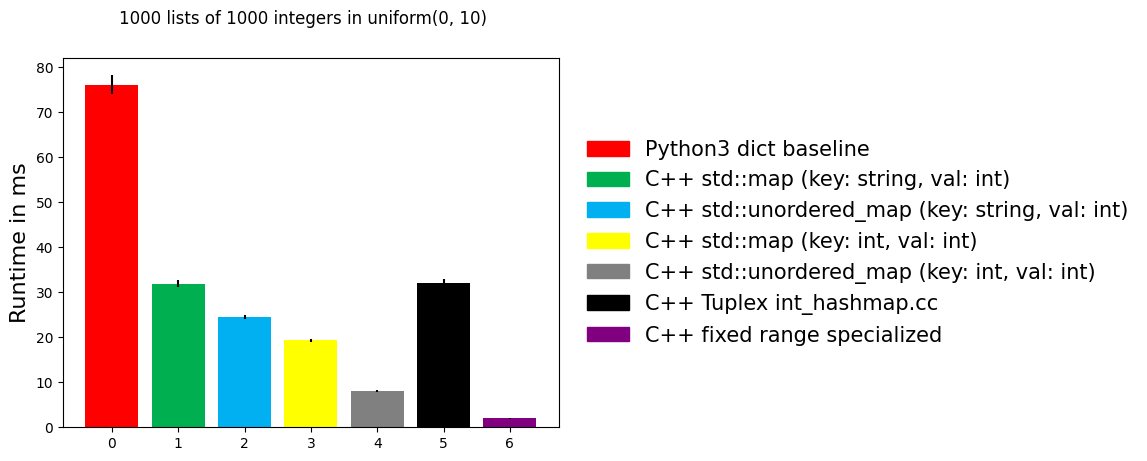
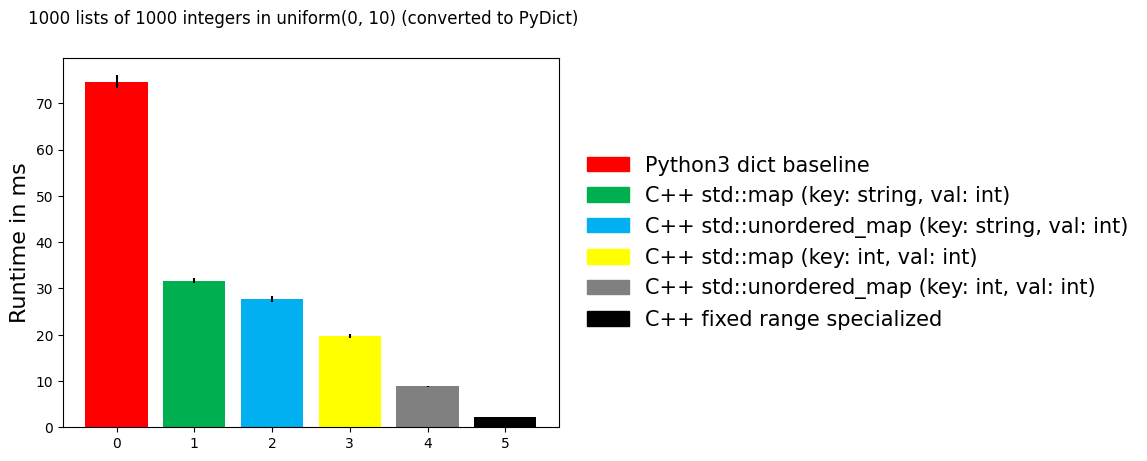
pydict version

diff --git a/benchmarks/hyperspecialization/list_generate/generate_timings.py b/benchmarks/hyperspecialization/list_generate/generate_timings.py
@@ -68,7 +68,7 @@ def plot_timings(ys, legends, title):
     plt.legend(labels=objects, handles=patches, bbox_to_anchor=(1.04, 0.5), loc='center left', borderaxespad=0, fontsize=15, frameon=False)
 
     plt.suptitle(title)
-    plt.savefig('test.png', bbox_inches='tight')
+    plt.savefig('1000_0_to_1000.png', bbox_inches='tight')
 # add the annotations
 
     # for y_list, legend in zip(ys, legends):
@@ -88,7 +88,7 @@ def baseline_py_timings(filename_str):
     return (statistics.mean(curr_timings), statistics.stdev(curr_timings))
 
 def get_cc_timings(filename_str):
-    to_run_cc = ['stdmap_string_int', 'stdumap_string_int', 'stdmap_int_int', 'stdumap_int_int', 'tuplex_int_nopydict', 'fixed_range_nopydict']
+    to_run_cc = ['stdmap_string_int', 'stdumap_string_int', 'stdmap_int_int', 'stdumap_int_int', 'fixed_range_nopydict']
     # run_baseline_py()
     to_run_timings = []
 
@@ -99,9 +99,9 @@ def get_cc_timings(filename_str):
 
 def main():
     to_run_cc_legend = ['C++ std::map (key: string, val: int)',
-   'C++ std::unordered_map (key: string, val: int)', 'C++ std::map (key: int, val: int)',  'C++ std::unordered_map (key: int, val: int)', 'C++ Tuplex int_hashmap.cc', 'C++ fixed range specialized']
+   'C++ std::unordered_map (key: string, val: int)', 'C++ std::map (key: int, val: int)',  'C++ std::unordered_map (key: int, val: int)', 'C++ fixed range specialized']
 
-    filename_strs = ['1000_of_1000_int_uniform_0_to_1000']
+    filename_strs = ['1000_of_10000_int_uniform_0_to_1000']
 
     run_baseline_py(filename_strs[0])
     baseline_py = baseline_py_timings(filename_strs[0])
@@ -114,7 +114,7 @@ def main():
     # cc.append(get_cc_timings(filename))
     
     plot_timings([baseline_py] + cc, ['Python3 dict baseline'] + to_run_cc_legend, 
-        '1000 lists of 1000 integers in uniform(0, 1000)')
+        '1000 lists of 10000 integers in uniform(0, 1000) (converted to PyDict)')
 
 
 if __name__ == "__main__":

diff --git a/benchmarks/hyperspecialization/list_generate/count_unique_bench.cc b/benchmarks/hyperspecialization/list_generate/count_unique_bench.cc
@@ -4,6 +4,7 @@
 #include <type_traits>
 #include <chrono>
 #include <iostream>
+#include <Python.h>
 
 #include "csvmonkey.hpp"
 
@@ -62,6 +63,7 @@ template<typename T>
 void run(const char* path) {
     void* handle;
 
+    Py_Initialize();
     // std::string count_unique_path = "";
 
     // if constexpr(std::is_same<T, std::string>::value && CURR_DS == MAP_DS) {
@@ -76,13 +78,13 @@ void run(const char* path) {
 
 // choose function pointer type
 #if defined (COUNT_M_INT) || defined (COUNT_M_STRING)
-    std::vector<std::map<T, int> > (*countUniqueList)(std::vector<std::vector<T> >&);
+    std::vector<PyObject*> (*countUniqueList)(std::vector<std::vector<T> >&);
 #elif defined (COUNT_UM_INT) || defined (COUNT_UM_STRING)
-    std::vector<std::unordered_map<T, int> > (*countUniqueList)(std::vector<std::vector<T> >&);
+    std::vector<PyObject*> (*countUniqueList)(std::vector<std::vector<T> >&);
 #elif defined (FIXED_RANGE)
-    std::vector<std::vector<int> > (*countUniqueList)(std::vector<std::vector<T> >&);
+    std::vector<PyObject*> (*countUniqueList)(std::vector<std::vector<T> >&);
 #elif defined (TUPLEX_INT)
-    std::vector<map_t> (*countUniqueList)(std::vector<std::vector<T> >&);
+    std::vector<PyObject*> (*countUniqueList)(std::vector<std::vector<T> >&);
 #endif
 
     char* error;

diff --git a/benchmarks/hyperspecialization/list_generate/cpp_shared/count_um_full.cc b/benchmarks/hyperspecialization/list_generate/cpp_shared/count_um_full.cc
@@ -1,4 +1,4 @@
-#include <map>
+#include <Python.h>
 #include <unordered_map>
 #include <vector>
 #include <string>
@@ -11,17 +11,30 @@ using KEY_TYPE = int;
 
 extern "C" {
 
-std::unordered_map<KEY_TYPE, int> countUnique(const std::vector<KEY_TYPE>& li) {
+PyObject* to_pydict(std::unordered_map<KEY_TYPE, int>& dict) {
+    PyObject* mydict = PyDict_New();
+    for(auto& kv : dict) {
+        #ifndef STR
+        PyDict_SetItem(mydict, PyLong_FromLong(kv.first), PyLong_FromLong(kv.second));
+        #else
+        PyDict_SetItem(mydict, PyBytes_FromString(kv.first.c_str()), PyLong_FromLong(kv.second));
+        #endif
+    }
+    return mydict;
+}
+
+
+PyObject* countUnique(const std::vector<KEY_TYPE>& li) {
     std::unordered_map<KEY_TYPE, int> my_map;
     for(auto x : li) {
         my_map[x] += 1;
     }
-    return my_map;
+    return to_pydict(my_map);
 }
 
 
-std::vector<std::unordered_map<KEY_TYPE, int> > countUniqueList(const std::vector<std::vector<KEY_TYPE> >& li) {
-    std::vector<std::unordered_map<KEY_TYPE, int> > my_vec;
+std::vector<PyObject*> countUniqueList(const std::vector<std::vector<KEY_TYPE> >& li) {
+    std::vector<PyObject*> my_vec;
     my_vec.reserve(li.size());
     for(const auto& x : li) {
         my_vec.push_back(countUnique(x));

diff --git a/benchmarks/hyperspecialization/list_generate/cpp_shared/count_m_full.cc b/benchmarks/hyperspecialization/list_generate/cpp_shared/count_m_full.cc
@@ -1,7 +1,7 @@
 #include <map>
-#include <unordered_map>
 #include <vector>
 #include <string>
+#include <Python.h>
 
 #ifdef STR
 using KEY_TYPE = std::string;
@@ -11,17 +11,30 @@ using KEY_TYPE = int;
 
 extern "C" {
 
-std::map<KEY_TYPE, int> countUnique(const std::vector<KEY_TYPE>& li) {
+PyObject* to_pydict(std::map<KEY_TYPE, int>& dict) {
+    PyObject* mydict = PyDict_New();
+    for(auto& kv : dict) {
+        #ifndef STR
+        PyDict_SetItem(mydict, PyLong_FromLong(kv.first), PyLong_FromLong(kv.second));
+        #else
+        PyDict_SetItem(mydict, PyBytes_FromString(kv.first.c_str()), PyLong_FromLong(kv.second));
+        #endif
+    }
+    return mydict;
+}
+
+
+PyObject* countUnique(const std::vector<KEY_TYPE>& li) {
     std::map<KEY_TYPE, int> my_map;
     for(auto x : li) {
         my_map[x] += 1;
     }
-    return my_map;
+    return to_pydict(my_map);
 }
 
 
-std::vector<std::map<KEY_TYPE, int> > countUniqueList(const std::vector<std::vector<KEY_TYPE> >& li) {
-    std::vector<std::map<KEY_TYPE, int> > my_vec;
+std::vector<PyObject*> countUniqueList(const std::vector<std::vector<KEY_TYPE> >& li) {
+    std::vector<PyObject*> my_vec;
     my_vec.reserve(li.size());
     for(const auto& x : li) {
         my_vec.push_back(countUnique(x));

diff --git a/benchmarks/hyperspecialization/list_generate/tuplex-hashmap/tuplex-int-hashmap.cc b/benchmarks/hyperspecialization/list_generate/tuplex-hashmap/tuplex-int-hashmap.cc
@@ -1,12 +1,29 @@
 #include "hashmap.h"
 #include "int_hashmap.h"
 #include <vector>
+#include <Python.h>
 
 using KEY_TYPE = int;
 
 extern "C" {
 
-map_t countUnique(const std::vector<int>& li) {
+
+PyObject* to_pydict(map_t dict) {
+    PyObject* mydict = PyDict_New();
+    int64_hashmap_iterator_t iterator = 0;
+    uint64_t key = 0;
+    volatile uint64_t value = 0;
+
+    while(int64_hashmap_get_next_key(dict, &iterator, &key)) {
+        int64_hashmap_get(dict, key, (void**) value);
+        PyDict_SetItem(mydict, PyLong_FromLong(key), PyLong_FromLong(value));
+    }
+
+    return mydict;
+}
+
+
+PyObject* countUnique(const std::vector<int>& li) {
     map_t my_map = int64_hashmap_new();
     int res = -999;
     int64_any_t val = 0;
@@ -23,11 +40,11 @@ map_t countUnique(const std::vector<int>& li) {
             // assert(res == -3 || res == 0);
         }
     }
-    return my_map;
+    return to_pydict(my_map);
 }
 
-std::vector<map_t> countUniqueList(const std::vector<std::vector<int> >& li) {
-    std::vector<map_t> my_vec;
+std::vector<PyObject*> countUniqueList(const std::vector<std::vector<int> >& li) {
+    std::vector<PyObject*> my_vec;
     my_vec.reserve(li.size());
     for(const auto& x : li) {
         my_vec.push_back(countUnique(x));

diff --git a/benchmarks/hyperspecialization/list_generate/specialized-hashmap/fixed-range-nopydict.cc b/benchmarks/hyperspecialization/list_generate/specialized-hashmap/fixed-range-nopydict.cc
@@ -15,14 +15,14 @@ const int MAX_KEY = 1000;
 
 extern "C" {
 
-// PyObject* to_pydict(std::vector<int>& dict) {
-//     PyObject* mydict = PyDict_New();
-//     for (int i = MIN_KEY; i <= MAX_KEY; i++) {
-//         if(!dict[i]) continue;
-//         PyDict_SetItem(mydict, PyLong_FromLong(i), PyLong_FromLong(dict[i]));
-//     }
-//     return mydict;
-// }
+PyObject* to_pydict(std::vector<int>& dict) {
+    PyObject* mydict = PyDict_New();
+    for (int i = MIN_KEY; i <= MAX_KEY; i++) {
+        if(!dict[i]) continue;
+        PyDict_SetItem(mydict, PyLong_FromLong(i), PyLong_FromLong(dict[i]));
+    }
+    return mydict;
+}
 
 PyObject* countUnique(const std::vector<int>& li) {
     std::vector<int> dict(MAX_KEY - MIN_KEY + 1, 0);
@@ -33,10 +33,10 @@ PyObject* countUnique(const std::vector<int>& li) {
         dict[x] += 1;
     }
 
-    return dict;
+    return to_pydict(dict);
 }
 
-std::vector<std::vector<int> > countUniqueList(const std::vector<std::vector<int> >& li) {
+std::vector<PyObject*> countUniqueList(const std::vector<std::vector<int> >& li) {
     std::vector<PyObject*> my_vec;
     my_vec.reserve(li.size());
     for(const auto& x : li) {
